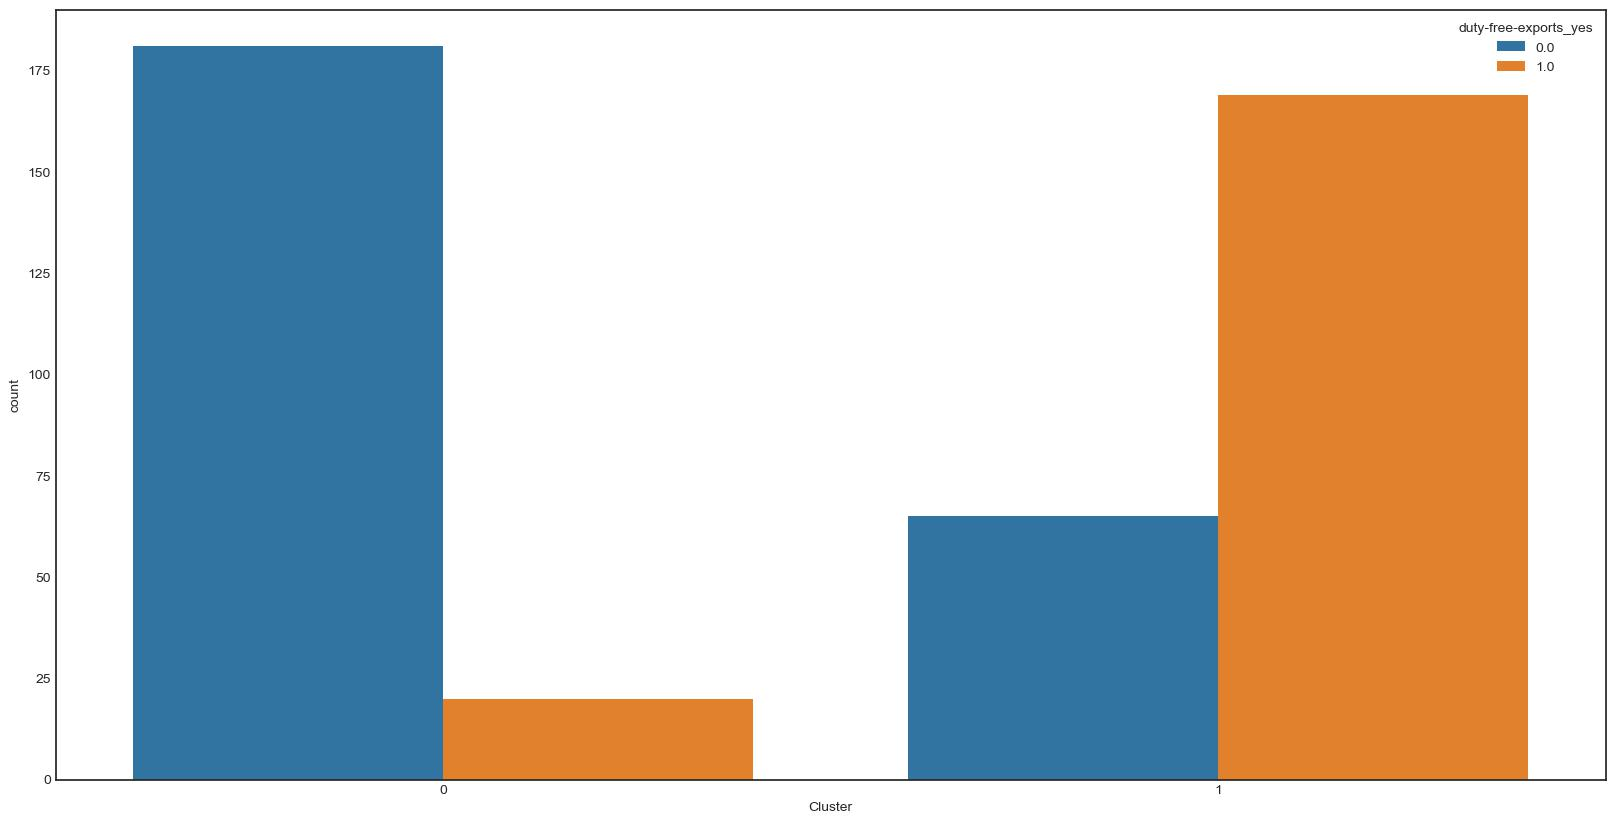
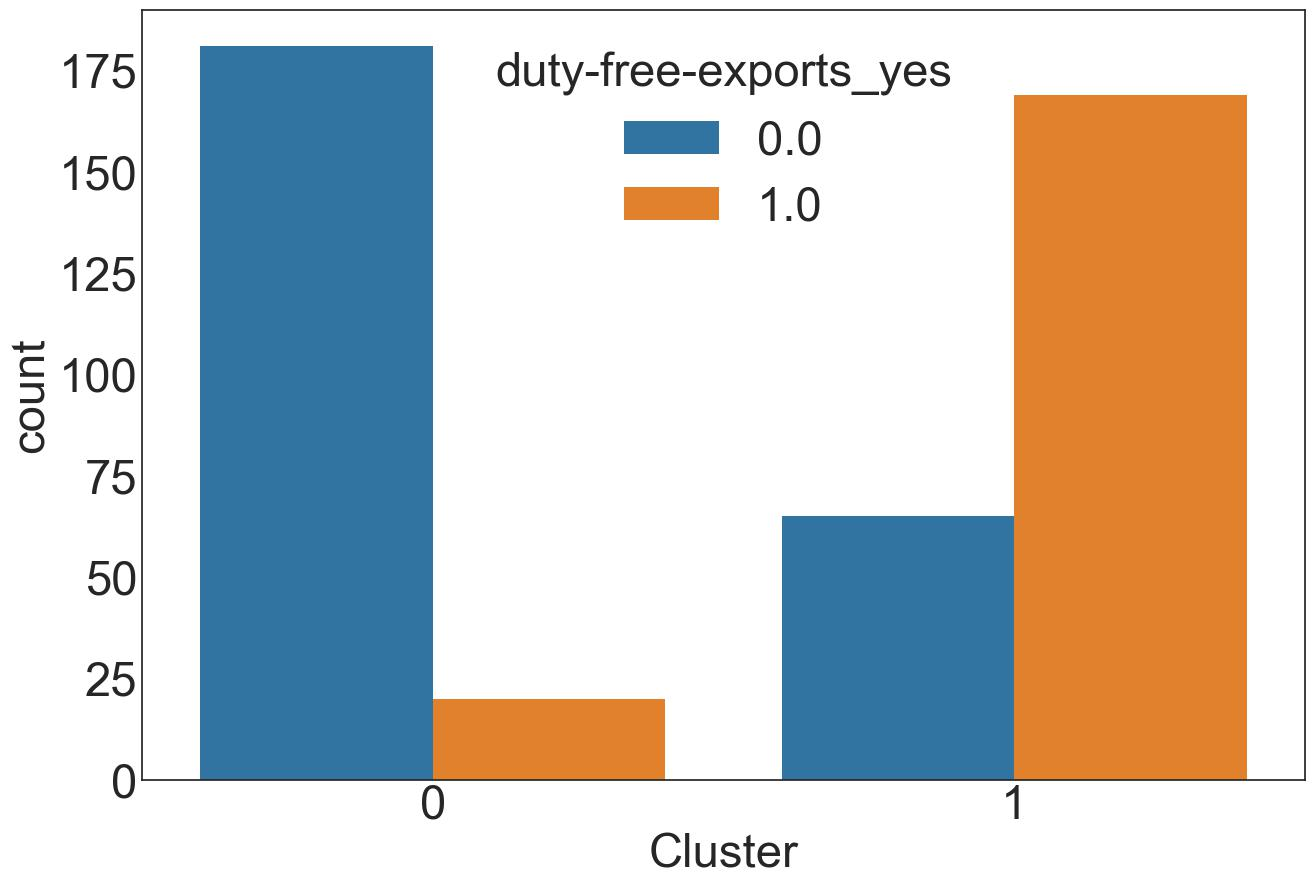
minor changes

diff --git a/visualize.py b/visualize.py
@@ -79,13 +79,14 @@ def bar_plot_vote(X, Y, labels, output, rename_target = None):
     :param output: path
     """
     plt.style.use('seaborn-white')
+    plt.rcParams.update({'font.size': 34})
     X['Target'] = Y
     if rename_target is not None:
         X['Target'] = X['Target'].replace(rename_target)
     X['Cluster'] = labels
     for column in X.columns:
         print(column)
-        fig = plt.figure(figsize=(20, 10))
+        fig = plt.figure(figsize=(15, 10))
         sns.countplot(data = X, x = 'Cluster', hue=column)
         plt.savefig(output+'{}.jpg'.format(column), bbox_inches='tight')
 
@@ -112,7 +113,7 @@ def coordinate_plot(X, Y, labels, columns_to_plot, output, rename_target=None):
     plt.savefig(output + 'parallel_coords.jpg', bbox_inches='tight')
 
 
-def coordinate_plot_by_cluster(X, Y, labels, columns_to_plot, output, rename_target=None):
+def coordinate_plot_by_cluster(X, Y, labels, columns_to_plot, output, dataset = 'vote', rename_target=None):
     """
     coordinate_plot
     Given a dataset, the target variable and the clustering labels,
@@ -133,7 +134,11 @@ def coordinate_plot_by_cluster(X, Y, labels, columns_to_plot, output, rename_tar
     max_value = max(max(X[columns_to_plot[i]]) for i in range(len(columns_to_plot)))
     min_value = min(min(X[columns_to_plot[i]]) for i in range(len(columns_to_plot)))
     # iris-setosa, iris-versicolor, iris-virginica
-    colors = [ ['#388E3C', '#1E88E5'], ['#EF6C00'], ['#EF6C00', '#388E3C', '#1E88E5'] ]
+    if dataset == 'vote':
+        colors = [ ['#388E3C', '#1E88E5'], ['#EF6C00'], ['#EF6C00', '#388E3C', '#1E88E5'] ]
+    else:
+        # class 0, 1, 2, 3
+        colors = [['#EF6C00', '#388E3C', '#1E88E5', '#3E2723'], ['#EF6C00', '#388E3C', '#1E88E5'], ['#EF6C00', '#388E3C', '#1E88E5']]
     plt.rcParams.update({'font.size': 34})
     for cluster in X.Cluster.unique():
         X_c = X.loc[X['Cluster'] == cluster]
@@ -141,7 +146,10 @@ def coordinate_plot_by_cluster(X, Y, labels, columns_to_plot, output, rename_tar
         parallel_coordinates(X_c, 'Target', cols = columns_to_plot, color = colors[cluster])
         plt.title('Cluster: {}'.format(cluster))
         plt.xticks(rotation=90)
-        plt.legend(loc='upper left')
+        if dataset == 'vote':
+            plt.legend(loc='upper left')
+        else:
+            plt.legend(loc='best')
         plt.ylim(max_value, min_value)
         plt.savefig(output + 'parallel_coords_cluster_{}.jpg'.format(cluster), bbox_inches='tight')
 

diff --git a/main.py b/main.py
@@ -128,6 +128,20 @@ def main():
             confusion_matrix_compute(labels, Y.replace({'negative': 0, 'compensated_hypothyroid': 1, 'primary_hypothyroid': 2,
                                                         'secondary_hypothyroid': 3}), output='./plots/hyp/')
 
+            numeric_vbles = ['age', 'TSH', 'T3', 'TT4', 'T4U', 'FTI']
+
+            binary_vbles = ['sex', 'on_thyroxine', 'query_on_thyroxine',
+                            'on_antithyroid_medication', 'sick', 'pregnant', 'thyroid_surgery',
+                            'I131_treatment', 'query_hypothyroid', 'query_hyperthyroid', 'lithium',
+                            'goitre', 'tumor', 'hypopituitary', 'psych', 'TSH_measured',
+                            'T3_measured', 'TT4_measured', 'T4U_measured',
+                            'FTI_measured']
+
+            bar_plot_vote(X.copy(), Y.copy(), labels, output = './plots/hyp/')
+            coordinate_plot_by_cluster(X.copy(), Y.copy(), labels, numeric_vbles, dataset = 'hyp', output='./plots/hyp/')
+            anova(X.copy(), labels, numeric_vbles, output='./results/hyp_')
+            chi2(X.copy(), labels, binary_vbles, output = './results/hyp_' )
+
         if config['dataset'] == 'iris':
             confusion_matrix_compute(labels, Y, output='./plots/iris/')
             columns_to_plot = [ 'petalwidth', 'petallength', 'sepalwidth', 'sepallength']
